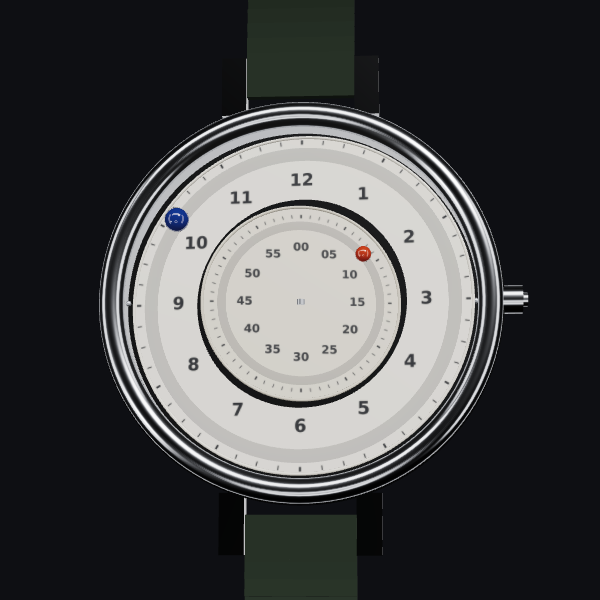
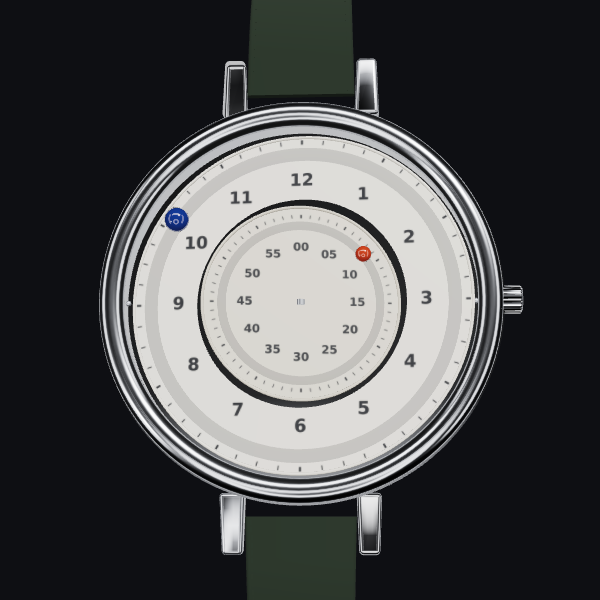
chore(release): v0.19.0
Claude-Session: https://claude.ai/code/session_01S6AKhfdxE2jM9ymmD2g4Kd

diff --git a/docs/roadmap.md b/docs/roadmap.md
@@ -12,7 +12,7 @@ Status of the phases defined in `PROJECT_VISION.md` §15.
 | 0.6.0   | Phase 5 — Customization                                                | done   |
 | 0.7.0   | Phase 6 — GLB export                                                   | done   |
 
-Later: Phase 7 (AI concept pipeline), Phase 8 (Blender assets).
+Phase 7 (AI concept pipeline) landed in 0.17–0.18, Phase 8 (Blender assets) in 0.19.
 
 ## MVP status (PROJECT_VISION.md §18)
 
@@ -63,17 +63,26 @@ Chladni sand on compute shaders (32 768 grains on the WebGPU backend), and two c
 the research backlog after the precedent check: 014 Plasma and 015 Phase (Night-only was
 retired as a standalone concept).
 
+## 0.19.0 — Simulations deepened, Phase 8 Blender assets
+
+Chladni sand piles into a lit heightfield (height grid on CPU and GPU), Phase runs the wave
+equation with reflections off the case wall (CPU solver, compute shaders on the WebGPU
+backend), Plasma filaments follow a touch, and the shared strap, bracelet, crown and lugs
+are modelled in Blender (`blender/generate_assets.py`). A refactor pass shared the random
+numbers, clock angles, TSL node typing and test helpers.
+
 ## Next candidates
 
 Needs the user (cannot be done from the headless sandbox):
 
-- Visual review pass on real devices; tune lighting and strap geometry.
+- Visual review pass on real devices; tune lighting and the new Blender strap and lugs.
 - Real-device check of `?renderer=auto` before making WebGPU the default
-  (`docs/rendering-and-webgpu.md` §9), and of the tilt button on phones (gyroscope
-  permission).
+  (`docs/rendering-and-webgpu.md` §9), of the tilt button on phones (gyroscope permission),
+  and of the frame cost of Phase's wave solver on low-end phones.
 
 Can be done next:
 
-- Chladni grain–grain collisions and a sand heightfield; Phase waves as a GPU wave equation
-  with reflections off the case wall; Plasma filaments that follow a touch.
-- Phase 8 — Blender assets for the hero concepts.
+- Phase: a touch on the crystal as a third wave source.
+- Plasma: filaments bending in 3D around the core; a crackle sound synced to the strikes.
+- Chladni: true grain–grain collisions (neighbour grid) and an angle of repose.
+- More Blender assets: bezels and engraved casebacks for the hero concepts.

diff --git a/docs/rendering-and-webgpu.md b/docs/rendering-and-webgpu.md
@@ -439,3 +439,25 @@ WebGPU-on-WebGL2 keep the CPU model.
 015 Phase (per-frame `DataTexture` waves) use classic materials only and were checked on
 WebGL and the WebGPU backend. Both drive bloom with unlit HDR colours (`toneMapped={false}`,
 colours scaled above 1) so that only the glowing parts cross the threshold.
+
+## 11. v0.19.0 notes
+
+### More compute on the WebGPU backend
+
+- **Chladni piling:** an atomic-add pass bins the grains into a 96² height grid, a blur pass
+  turns counts into heights, and the step kernel reads the slope. The heightfield mesh reads
+  the same heights in its vertex shader and derives normals from their differences (passed
+  to the fragment stage with `varying`), so nothing returns to the CPU. Off-screen check:
+  total height identical on CPU and GPU.
+- **Phase wave equation:** leapfrog step, emitter forces, running power, a ring-peak
+  reduction (atomic max on `floatBitsToUint`, which orders like the floats for positive
+  values) and a crest kernel writing a storage texture. Two pitfalls: a storage texture used
+  as a `map` must not be 8-bit (R3F tags `map` textures sRGB, and sRGB formats cannot be
+  storage-bound — use half floats), and an index computed with `int(...)` that is also an
+  assignment target must be `.toVar()`'d or the cast is lost in the generated WGSL.
+  Off-screen check: CPU and GPU fields focus on the same point with the same brightness.
+
+### Blender assets
+
+`useGLTF` geometry for the strap, bracelet, crown and lugs, with the case's own materials.
+The node-based brushed metal on WebGPU reads `uv`, so the assets are exported unwrapped.

diff --git a/CHANGELOG.md b/CHANGELOG.md
@@ -4,6 +4,26 @@ All notable changes to this project are documented here.
 The format follows [Keep a Changelog](https://keepachangelog.com/en/1.1.0/) and the
 project uses [Semantic Versioning](https://semver.org).
 
+## [0.19.0] - 2026-10-09
+
+### Added (roadmap "Next candidates")
+
+- **Chladni piling and heightfield:** grains slide down a height grid so the still lines
+  grow ridges, drawn as a lit sand surface; on the GPU on the WebGPU backend.
+- **Phase wave equation:** the foci are now formed by a simulated wave field — emitters
+  driven with focusing delays, reflections off the case wall, damping. CPU solver on WebGL,
+  compute shaders on finer grids on the WebGPU backend.
+- **Plasma touch:** touching or hovering over the crystal pulls filaments up to the finger,
+  without changing the reading.
+- **Phase 8 — Blender assets:** a tapered stitched strap, a three-piece link bracelet
+  (metal style), a fluted crown and bevelled lugs, generated by `blender/generate_assets.py`
+  (`npm run assets`) and shared by every watch. Thumbnails recaptured.
+
+### Changed
+
+- Refactor: shared `utils/random`, `clockTime` / `angleDistance` in `utils/time`, one TSL
+  node-typing helper, concept poses built on `handAngles`.
+
 ## [0.18.0] - 2026-10-08
 
 ### Added (roadmap "Next candidates")
